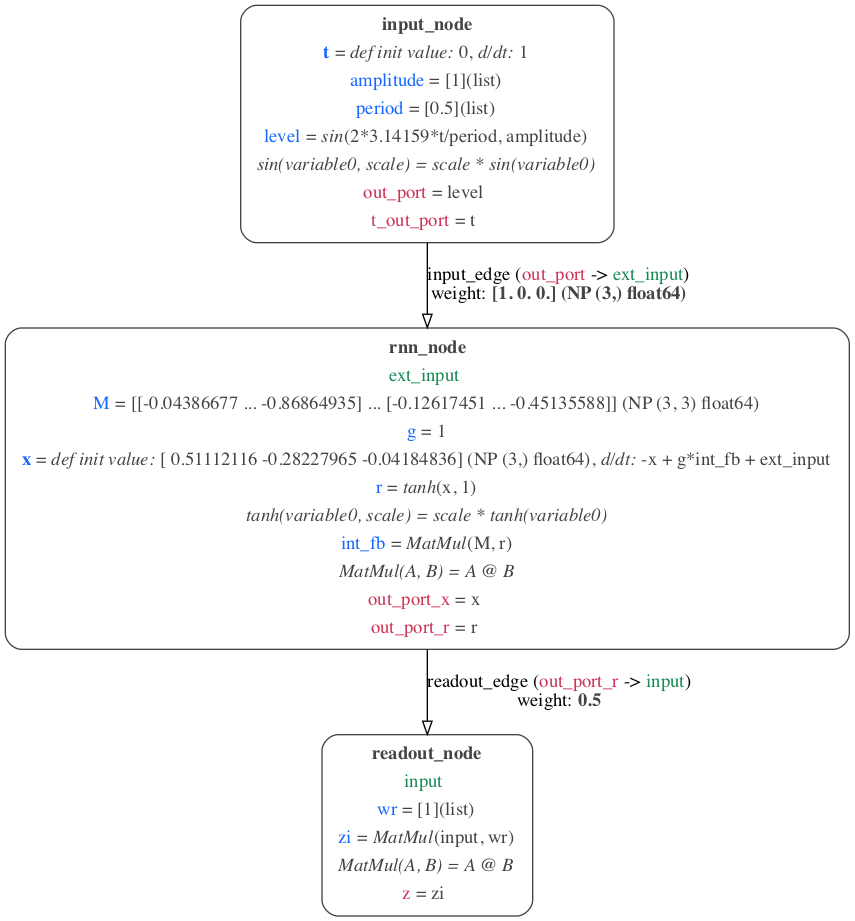
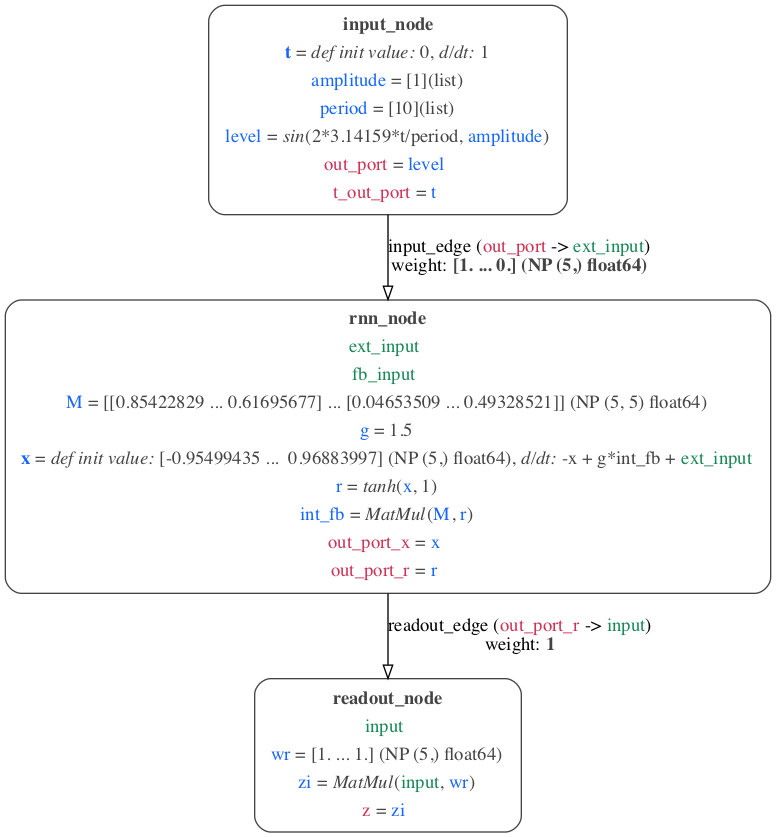
Update RNN example

Changed region(s): [[0.0, 0.0, 1.0, 1.0]]

diff --git a/examples/MDF/RNN/generate_rnn.py b/examples/MDF/RNN/generate_rnn.py
@@ -5,6 +5,7 @@
 from modeci_mdf.mdf import *
 import sys
 import numpy as np
+import time
 
 from utils import create_rnn_node
 
@@ -22,7 +23,7 @@ def main():
 
     p0 = Parameter(id="amplitude", value=[1])
     input_node.parameters.append(p0)
-    p1 = Parameter(id="period", value=[0.5])
+    p1 = Parameter(id="period", value=[10])
     input_node.parameters.append(p1)
 
     p2 = Parameter(
@@ -40,7 +41,7 @@ def main():
     mod_graph.nodes.append(input_node)
 
     N = 5
-    g = 1
+    g = 1.5
     rnn_node = create_rnn_node("rnn_node", N, g)
 
     mod_graph.nodes.append(rnn_node)
@@ -77,7 +78,7 @@ def main():
 
     e2 = Edge(
         id="readout_edge",
-        parameters={"weight": 0.5},
+        parameters={"weight": 1},
         sender=rnn_node.id,
         sender_port=rnn_node.get_output_port("out_port_r").id,
         receiver=readout_node.id,
@@ -85,8 +86,20 @@ def main():
     )
     mod_graph.edges.append(e2)
 
-    new_file = mod.to_json_file("%s.json" % mod.id)
-    new_file = mod.to_yaml_file("%s.yaml" % mod.id)
+    """
+    e3 = Edge(
+        id="feedback_edge",
+        parameters={"weight": 0.1},
+        sender=readout_node.id,
+        sender_port=readout_node.get_output_port("z").id,
+        receiver=rnn_node.id,
+        receiver_port=rnn_node.get_input_port("fb_input").id,
+    )
+    mod_graph.edges.append(e3)"""
+
+    if N < 100:
+        new_file = mod.to_json_file("%s.json" % mod.id)
+        new_file = mod.to_yaml_file("%s.yaml" % mod.id)
 
     if "-run" in sys.argv:
 
@@ -97,12 +110,20 @@ def main():
 
         from modeci_mdf.execution_engine import EvaluableGraph
 
-        eg = EvaluableGraph(mod_graph, verbose)
-        dt = 0.01
+        start_time = time.time()
 
-        duration = 5
+        from modelspec.utils import FORMAT_NUMPY, FORMAT_TENSORFLOW
+
+        format = FORMAT_TENSORFLOW if "-tf" in sys.argv else FORMAT_NUMPY
+
+        eg = EvaluableGraph(mod_graph, verbose)
+        dt = 0.1
+
+        duration = 50
         t_ext = 0
-        recorded = {}
+        max_num_rec_r = min(5, N)
+        max_num_rec_x = min(100, N)
+
         times = []
         ts = []
         ins = []
@@ -113,25 +134,30 @@ def main():
             times.append(t_ext)
             print("======   Evaluating at t = %s  ======" % (t_ext))
             if t_ext == 0:
-                eg.evaluate()  # replace with initialize?
+                eg.evaluate(array_format=format)  # replace with initialize?
             else:
-                eg.evaluate(time_increment=dt)
+                eg.evaluate(time_increment=dt, array_format=format)
 
-            t = eg.enodes["input_node"].evaluable_outputs["t_out_port"].curr_value
             i = eg.enodes["input_node"].evaluable_outputs["out_port"].curr_value
             xx = eg.enodes["rnn_node"].evaluable_outputs["out_port_x"].curr_value
             r = eg.enodes["rnn_node"].evaluable_outputs["out_port_r"].curr_value
             z = eg.enodes["readout_node"].evaluable_outputs["z"].curr_value
 
-            print(f"  - Values at {t}: i={i}; x={xx}; r={r}; z={z}")
+            if verbose:
+                print(f"  - Values at {t_ext}: i={i}; x={xx}; r={r}; z={z}")
 
             ins.append(i[0])
-            ts.append(t)
-            xs.append(xx)
-            rs.append(r)
+            xs.append(xx[0:max_num_rec_x])
+            rs.append(r[0:max_num_rec_r])
             zs.append(z)
 
             t_ext += dt
+
+        stop_time = time.time()
+        dur = stop_time - start_time
+        print(
+            f"Finished {len(times)} steps in {dur:.4f}s, so {(dur/len(times)):.5f}s per step"
+        )
 
         if "-nogui" not in sys.argv:
             import matplotlib.pyplot as plt
@@ -143,7 +169,7 @@ def main():
 
             # plt.plot(times, ts, label="time at input node")
             plt.plot(times, ins, label="state of input node")
-            plt.plot(times, xs, label="RNN x state", linewidth=0.5)
+            plt.plot(times, xs, linewidth=0.25)
             plt.plot(times, rs, label="RNN r state")
             plt.plot(times, zs, label="z readout", linewidth=3)
             plt.legend()
@@ -154,7 +180,7 @@ def main():
             engine="dot",
             output_format="png",
             view_on_render=False,
-            level=3,
+            level=2,
             filename_root="rnn",
             only_warn_on_fail=True,  # Makes sure test of this doesn't fail on Windows on GitHub Actions
         )

diff --git a/examples/MDF/RNN/utils.py b/examples/MDF/RNN/utils.py
@@ -9,6 +9,9 @@ def create_rnn_node(id, N, g):
     ipr1 = InputPort(id="ext_input")
     rnn_node.input_ports.append(ipr1)
 
+    ipr2 = InputPort(id="fb_input")
+    rnn_node.input_ports.append(ipr2)
+
     default_initial_value = np.zeros(N)
     default_initial_value = 2 * np.random.random(N) - 1
 
